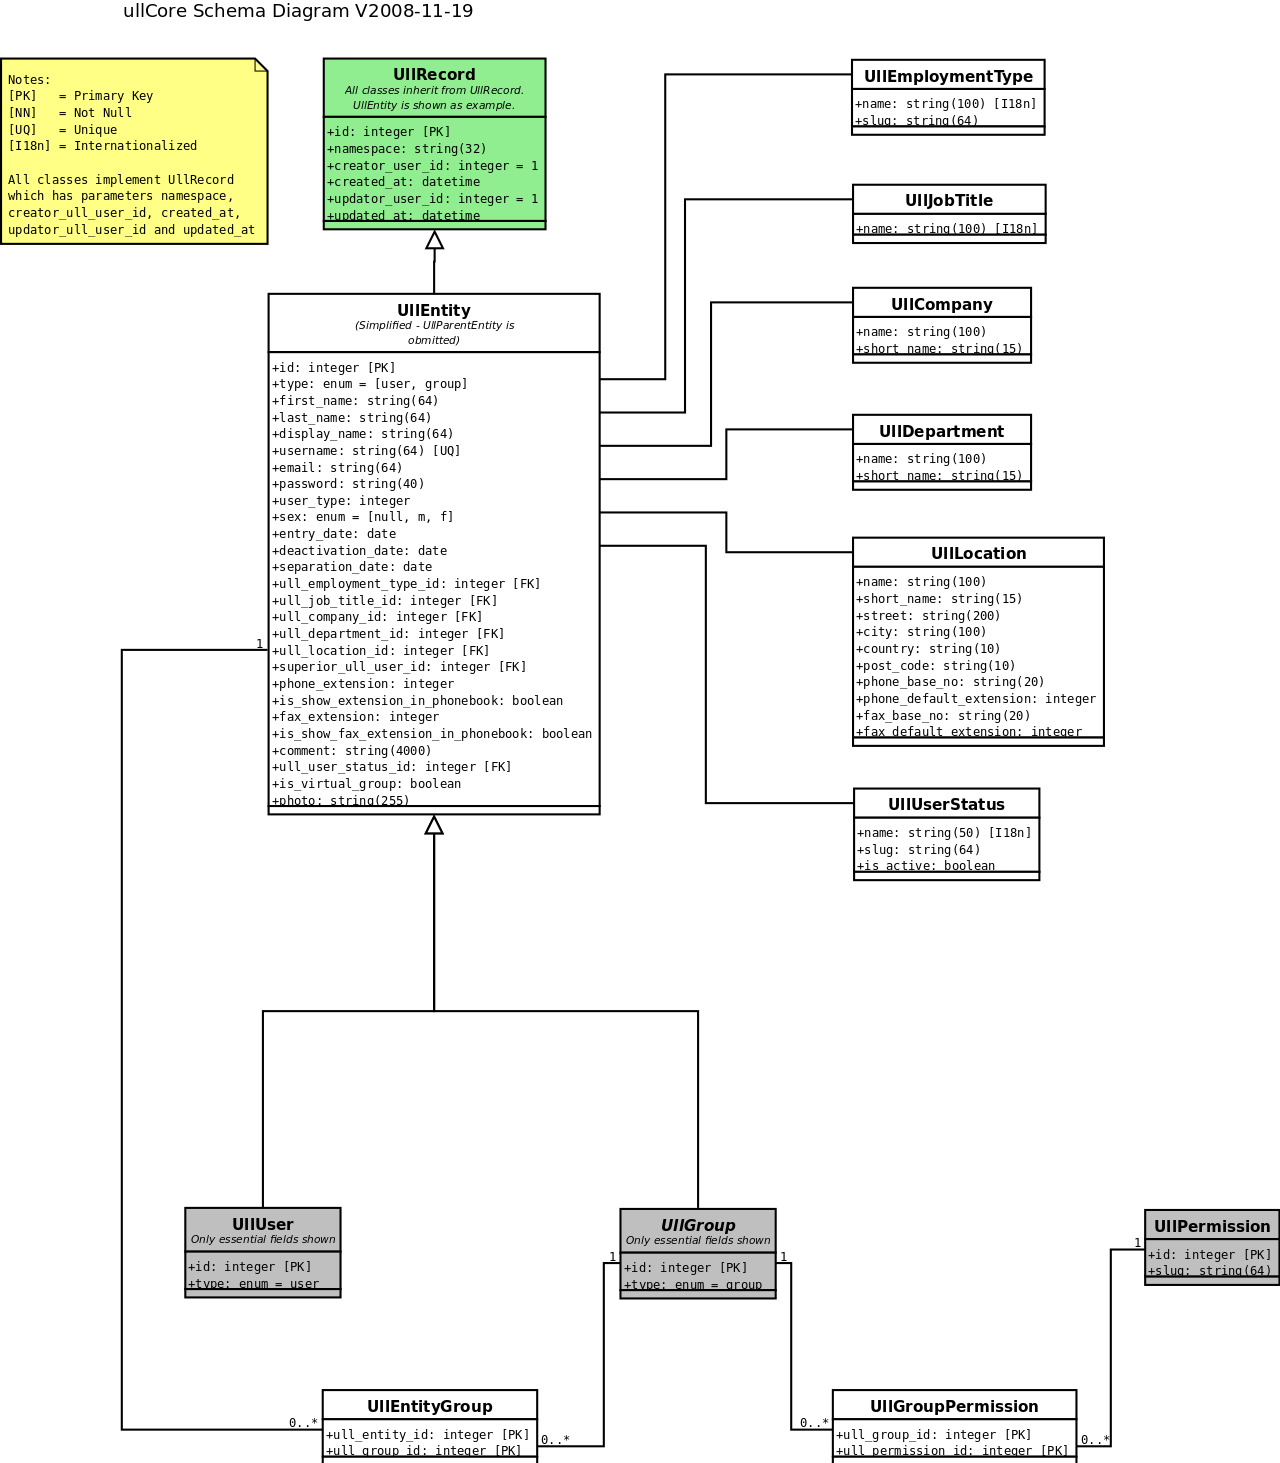
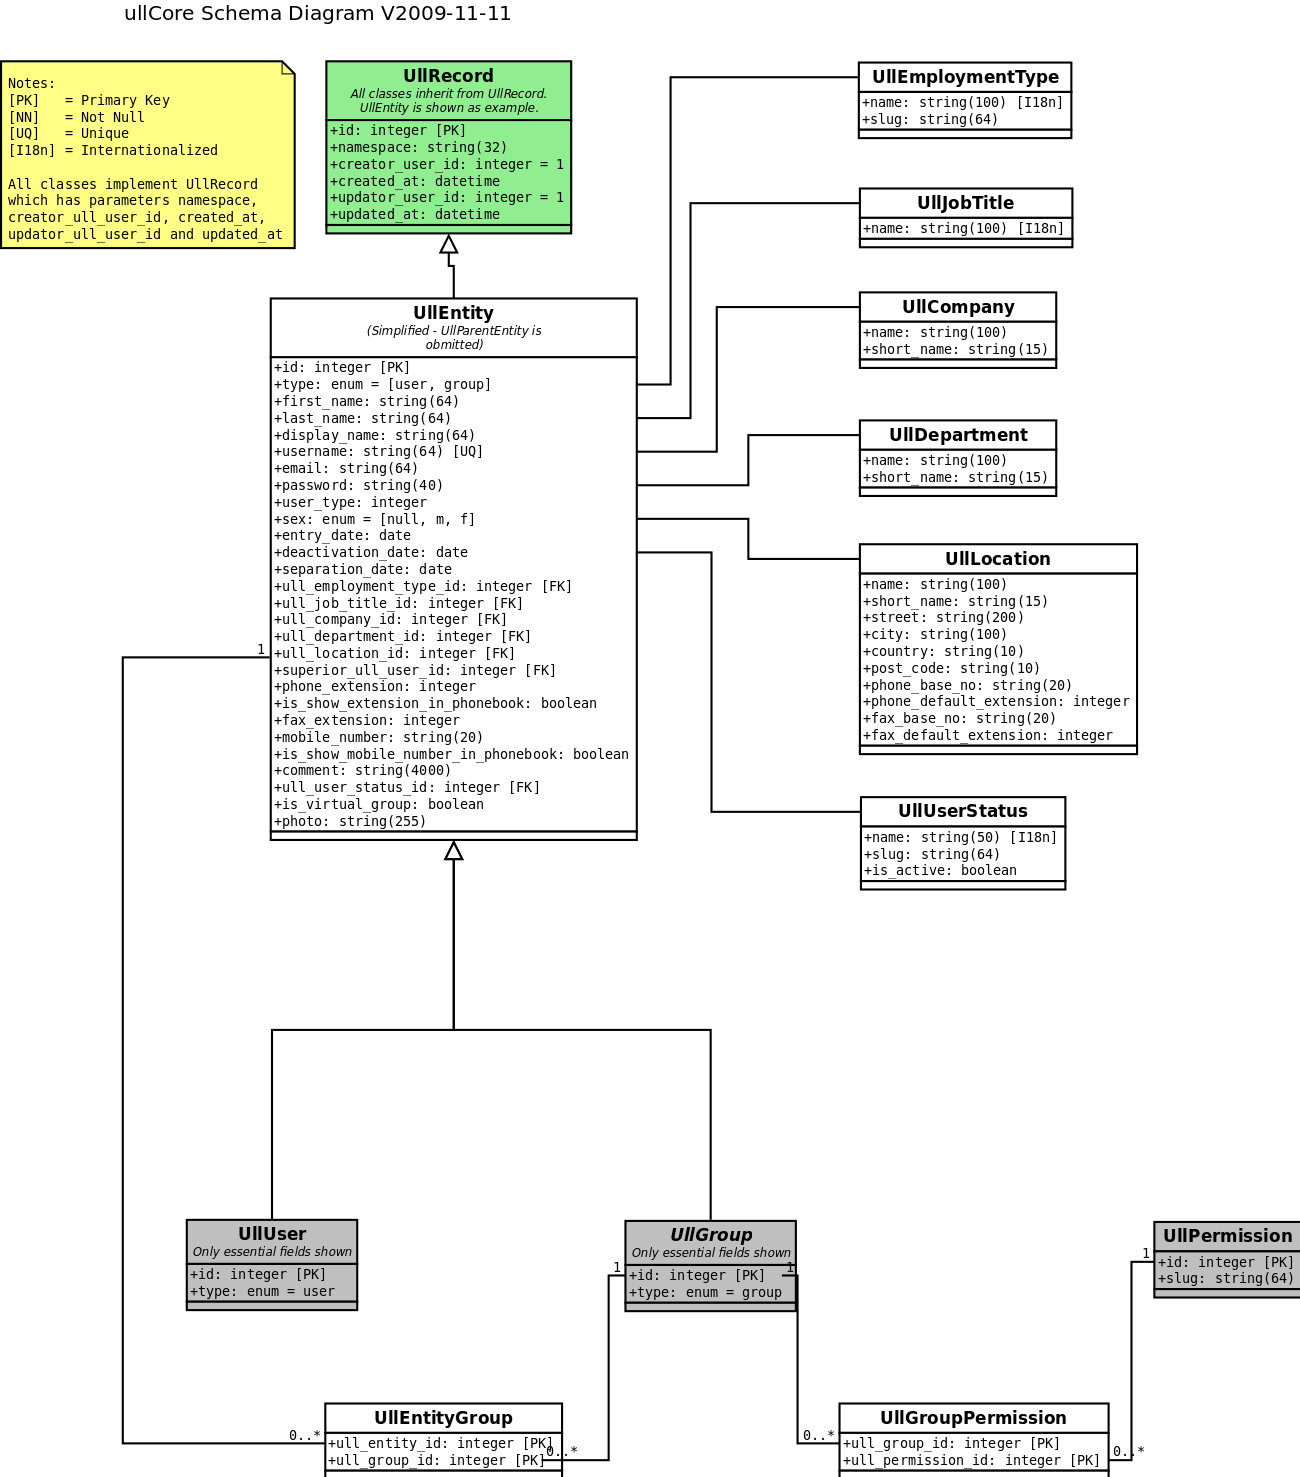
Added mobile number to UllUser, renamed show fax column to show mobile column; updated diagrams; fixed tests

diff --git a/test/functional/frontend/ullPhonePlugin/ullPhoneListTest.php b/test/functional/frontend/ullPhonePlugin/ullPhoneListTest.php
@@ -23,24 +23,26 @@
     
     //checks for
     //  a) correct content
-    //  b) hidden phone/fax extensions
+    //  b) hidden phone/mobile extensions
     //  c) email links
     //  d) ordering (last name)
     ->checkResponseElement($dgsList->getFullRowSelector(), 4) // number of rows
     ->checkResponseElement($dgsList->get(1, 'last_name'), 'Admin')
     ->checkResponseElement($dgsList->get(1, 'phone_extension'), '1111')
-    ->checkResponseElement($dgsList->get(1, 'fax_extension'), '-')
+    ->checkResponseElement($dgsList->get(1, 'fax_extension'), '3333')
+    ->checkResponseElement($dgsList->get(1, 'mobile_number'), '-')
     ->checkResponseElement($dgsList->get(1, 'location'), 'Wien Mollardgasse')
     ->checkResponseElement($dgsList->get(1, 'email_link') . ' > a[href="mailto:admin@example.com"]')
     ->checkResponseElement($dgsList->get(2, 'last_name'), 'Admin User')
     ->checkResponseElement($dgsList->get(2, 'phone_extension'), '')
-    ->checkResponseElement($dgsList->get(4, 'phone_extension'), '-')
-    ->checkResponseElement($dgsList->get(4, 'fax_extension'), '4444')
-    ->checkResponseElement($dgsList->get(4, 'location'), 'New York 5th Ave')
-    ->checkResponseElement($dgsList->get(4, 'email_link') . ' > a[href="mailto:test.user@example.com"]')
     ->checkResponseElement($dgsList->get(3, 'last_name'), 'User')
     ->checkResponseElement($dgsList->get(3, 'first_name'), 'Helpdesk')
     ->checkResponseElement($dgsList->get(3, 'fax_extension'), '')
+    ->checkResponseElement($dgsList->get(4, 'phone_extension'), '-')
+    ->checkResponseElement($dgsList->get(4, 'fax_extension'), '4444')
+    ->checkResponseElement($dgsList->get(4, 'mobile_number'), '+43 1 55556666')
+    ->checkResponseElement($dgsList->get(4, 'location'), 'New York 5th Ave')
+    ->checkResponseElement($dgsList->get(4, 'email_link') . ' > a[href="mailto:test.user@example.com"]')
   ;
   
   $b
@@ -64,7 +66,9 @@
     ->checkResponseElement($dgsListLocationHeader->get(4, 'location_name'), 'New York 5th Ave (NYC) Map')
     ->checkResponseElement($dgsList->get(5, 'phone_extension'), '-')
     ->checkResponseElement($dgsList->get(5, 'fax_extension'), '4444')
+    ->checkResponseElement($dgsList->get(5, 'mobile_number'), '+43 1 55556666')
     ->checkResponseElement($dgsListLocationHeader->get(6, 'location_name'), 'Wien Mollardgasse (WMO) Map')
     ->checkResponseElement($dgsList->get(7, 'phone_extension'), '1111')
-    ->checkResponseElement($dgsList->get(7, 'fax_extension'), '-')
+    ->checkResponseElement($dgsList->get(7, 'fax_extension'), '3333')
+    ->checkResponseElement($dgsList->get(7, 'mobile_number'), '-')
   ;

diff --git a/test/functional/frontend/ullPhonePlugin/ullPhoneSearchTest.php b/test/functional/frontend/ullPhonePlugin/ullPhoneSearchTest.php
@@ -36,8 +36,10 @@
       ->checkElement($dgsListLocationHeader->get(3, 'location_name'), 'Wien Mollardgasse (WMO) Map')
       ->checkElement($dgsList->get(4, 'last_name'), 'Admin')
       ->checkElement($dgsList->get(4, 'phone_extension'), '1111')
-      ->checkElement($dgsList->get(4, 'fax_extension'), '-')
+      ->checkElement($dgsList->get(4, 'mobile_number'), '-')
     ->end()
+    
+    
     
     ->info('Search for \'1111\'')
     ->info('Should list one user')
@@ -51,13 +53,28 @@
       ->checkElement($dgsList->get(2, 'last_name'), 'Admin')
       ->checkElement($dgsList->get(2, 'first_name'), 'Master')
       ->checkElement($dgsList->get(2, 'phone_extension'), '1111')
-      ->checkElement($dgsList->get(2, 'fax_extension'), '-')
+      ->checkElement($dgsList->get(2, 'mobile_number'), '-')
     ->end()
+    
+    
     
     ->info('Search for \'2222\'')
     ->info('Should list no user, since the number is hidden')
     ->call('/ullPhone/list/locationView/true', 'POST',
       array('filter[search]' => '2222'))
+    
+    ->with('response')->begin()
+      //there should be two location headers and two users
+      ->checkElement($dgsList->getFullRowSelector(), 0) // number of rows
+    ->end()
+    
+    
+    
+    ->info('Search for \'7777\'')
+    ->info('Should list no user, since that is the number of a clone user')
+    ->info('(Doesn\'t work atm, parentheses problem?)')
+    ->call('/ullPhone/list/locationView/true', 'POST',
+      array('filter[search]' => '7777'))
     
     ->with('response')->begin()
       //there should be two location headers and two users

diff --git a/plugins/ullCorePlugin/lib/generator/columnConfigCollection/UllEntityColumnConfigCollection.class.php b/plugins/ullCorePlugin/lib/generator/columnConfigCollection/UllEntityColumnConfigCollection.class.php
@@ -56,8 +56,9 @@ class UllEntityColumnConfigCollection extends ullColumnConfigCollection
     $this['phone_extension']->setLabel(__('Phone extension', null, 'ullCoreMessages'));
     $this['is_show_extension_in_phonebook']->setLabel(__('Show phone ext. in phone book', null, 'ullCoreMessages'));
     $this['fax_extension']->setLabel(__('Fax extension', null, 'ullCoreMessages'));
-    $this['is_show_fax_extension_in_phonebook']
-      ->setLabel(__('Show fax ext. in phone book', null, 'ullCoreMessages'))
+    $this['mobile_number']->setLabel(__('Mobile number', null, 'ullCoreMessages'));
+    $this['is_show_mobile_number_in_phonebook']
+      ->setLabel(__('Show mobile number in phone book', null, 'ullCoreMessages'))
       ->setShowSpacerAfter(true)
     ;
     
@@ -98,7 +99,8 @@ class UllEntityColumnConfigCollection extends ullColumnConfigCollection
       'phone_extension',
       'is_show_extension_in_phonebook',
       'fax_extension',
-      'is_show_fax_extension_in_phonebook',
+      'mobile_number',
+      'is_show_mobile_number_in_phonebook',
       'ull_employment_type_id',
       'entry_date',
       'deactivation_date',
@@ -118,7 +120,7 @@ class UllEntityColumnConfigCollection extends ullColumnConfigCollection
         'sex', 
         'password',
         'is_show_extension_in_phonebook',
-        'is_show_fax_extension_in_phonebook',      
+        'is_show_mobile_number_in_phonebook',      
         'entry_date',
         'deactivation_date',
         'separation_date',

diff --git a/plugins/ullPhonePlugin/modules/ullPhone/lib/BaseUllPhoneActions.class.php b/plugins/ullPhonePlugin/modules/ullPhone/lib/BaseUllPhoneActions.class.php
@@ -109,7 +109,7 @@ class BaseUllPhoneActions extends BaseUllGeneratorActions
     //the columns with a dash if the matching boolean is false
     $this->q->getDoctrineQuery()->addSelect('x.*, ' .
       'if(x.is_show_extension_in_phonebook is not false, x.phone_extension, \'-\') as phone_extension, ' .
-      'if(x.is_show_fax_extension_in_phonebook is not false, x.fax_extension, \'-\') as fax_extension');
+      'if(x.is_show_mobile_number_in_phonebook is not false, x.mobile_number, \'-\') as mobile_number');
     
     if ($this->isLocationView)
     {
@@ -132,8 +132,8 @@ class BaseUllPhoneActions extends BaseUllGeneratorActions
       $this->q->orWhere('is_show_extension_in_phonebook is not FALSE ' .
         'AND phone_extension LIKE ?', '%' . $this->phoneSearchFilter . '%');
 
-      $this->q->orWhere('is_show_fax_extension_in_phonebook is not FALSE ' .
-        'AND fax_extension LIKE ?', '%' . $this->phoneSearchFilter . '%');
+      $this->q->orWhere('is_show_mobile_number_in_phonebook is not FALSE ' .
+        'AND mobile_number LIKE ?', '%' . $this->phoneSearchFilter . '%');
     }
   }
 

diff --git a/test/unit/ullCorePlugin/ullSearchGeneratorTest.php b/test/unit/ullCorePlugin/ullSearchGeneratorTest.php
@@ -27,7 +27,7 @@ $sfe->uuid = 3;
 $sfeArray[] = $sfe;
 
 $sfe = new ullSearchFormEntry();
-$sfe->columnName = 'is_show_fax_extension_in_phonebook';
+$sfe->columnName = 'is_show_mobile_number_in_phonebook';
 $sfe->uuid = 4;
 $sfeArray[] = $sfe;
 
@@ -66,7 +66,7 @@ $labels = array('ID', 'to:',
   'First name',
   'Last name', 'Last name',
   'Department',
-  'Show fax ext. in phone book',
+  'Show mobile number in phone book',
   'Status',
   'Created by - Location - Country');
 
@@ -78,7 +78,7 @@ $searchGenerator = new ullSearchGenerator(array_merge($searchConfig->getAllSearc
 $searchGenerator->reduce($sfeArray);
 
 $t->is($searchGenerator->getColumnLabel('ull_user_status_id'), 'Status', 'getColumnLabel ok');
-$t->is($searchGenerator->getColumnLabel('is_show_fax_extension_in_phonebook'), 'Show fax ext. in phone book', 'getColumnLabel ok');
+$t->is($searchGenerator->getColumnLabel('is_show_mobile_number_in_phonebook'), 'Show mobile number in phone book', 'getColumnLabel ok');
 
 $searchGenerator->buildForm();
 

diff --git a/test/unit/ullCorePlugin/ullSearchFormEntryHelperTest.php b/test/unit/ullCorePlugin/ullSearchFormEntryHelperTest.php
@@ -41,7 +41,7 @@ $sfe->uuid = 3;
 $sfeArray[] = $sfe;
 
 $sfe = new ullSearchFormEntry();
-$sfe->columnName = 'is_show_fax_extension_in_phonebook';
+$sfe->columnName = 'is_show_mobile_number_in_phonebook';
 $sfe->uuid = 4;
 $sfeArray[] = $sfe;
 
@@ -80,7 +80,7 @@ $t->is($criterion->isNot, true, 'cg 3 - isNot ok');
 $criterion = $criterionGroups[4]->subCriteria[0];
 $t->isa_ok($criterion, 'ullSearchBooleanCriterion', 'cg 4 - class name ok');
 $t->is($criterion->compareValue, 1, 'cg 4 - compare value ok');
-$t->is($criterion->columnName, 'is_show_fax_extension_in_phonebook', 'cg 4 - column name ok');
+$t->is($criterion->columnName, 'is_show_mobile_number_in_phonebook', 'cg 4 - column name ok');
 $t->is($criterion->isNot, false, 'cg 4 - isNot ok');
 
 $criterion = $criterionGroups[5]->subCriteria[0];

diff --git a/test/functional/frontend/ullCorePlugin/ullUserSearchTypesTest.php b/test/functional/frontend/ullCorePlugin/ullUserSearchTypesTest.php
@@ -46,7 +46,7 @@ $browser
   ->call('/ullUser/search', 'POST', array (
   'fields' => 
   array (
-    'columnSelect' => 'is_show_fax_extension_in_phonebook',
+    'columnSelect' => 'is_show_mobile_number_in_phonebook',
   ),
   'addSubmit' => 'Hinzufügen',
 ))

diff --git a/plugins/ullCorePlugin/lib/ullTestBrowser.class.php b/plugins/ullCorePlugin/lib/ullTestBrowser.class.php
@@ -364,6 +364,7 @@ class ullTestBrowser extends sfDoctrineTestBrowser
         'first_name',
         'phone_extension',
         'fax_extension',
+        'mobile_number',
         'email_link',
         'company',
         'department',

diff --git a/plugins/ullPhonePlugin/lib/ullPhoneGenerator.class.php b/plugins/ullPhonePlugin/lib/ullPhoneGenerator.class.php
@@ -9,6 +9,7 @@ class ullPhoneGenerator extends ullTableToolGenerator
       'first_name',
       'phone_extension',
       'fax_extension',
+      'mobile_number',
       'email',
       'UllCompany->name',
       'UllDepartment->name',
